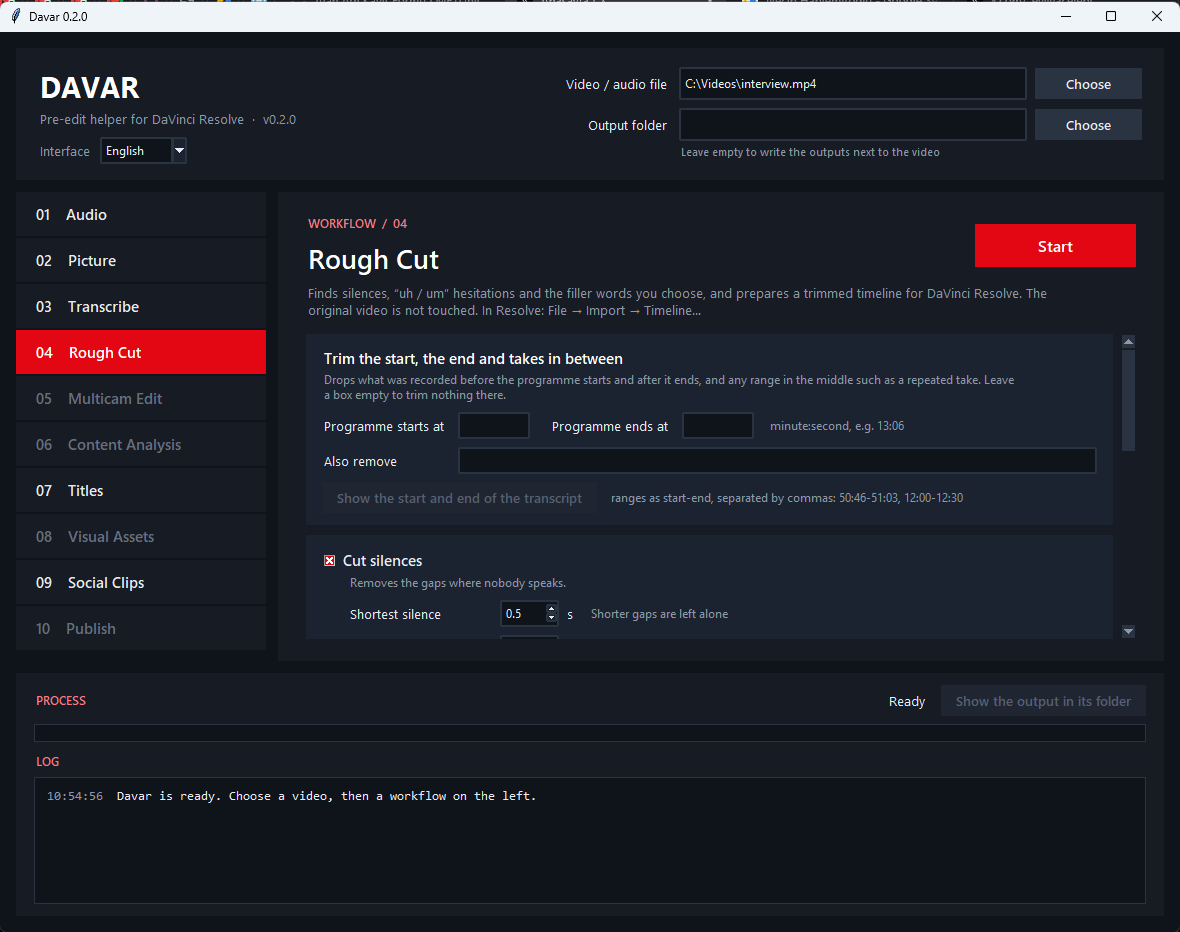
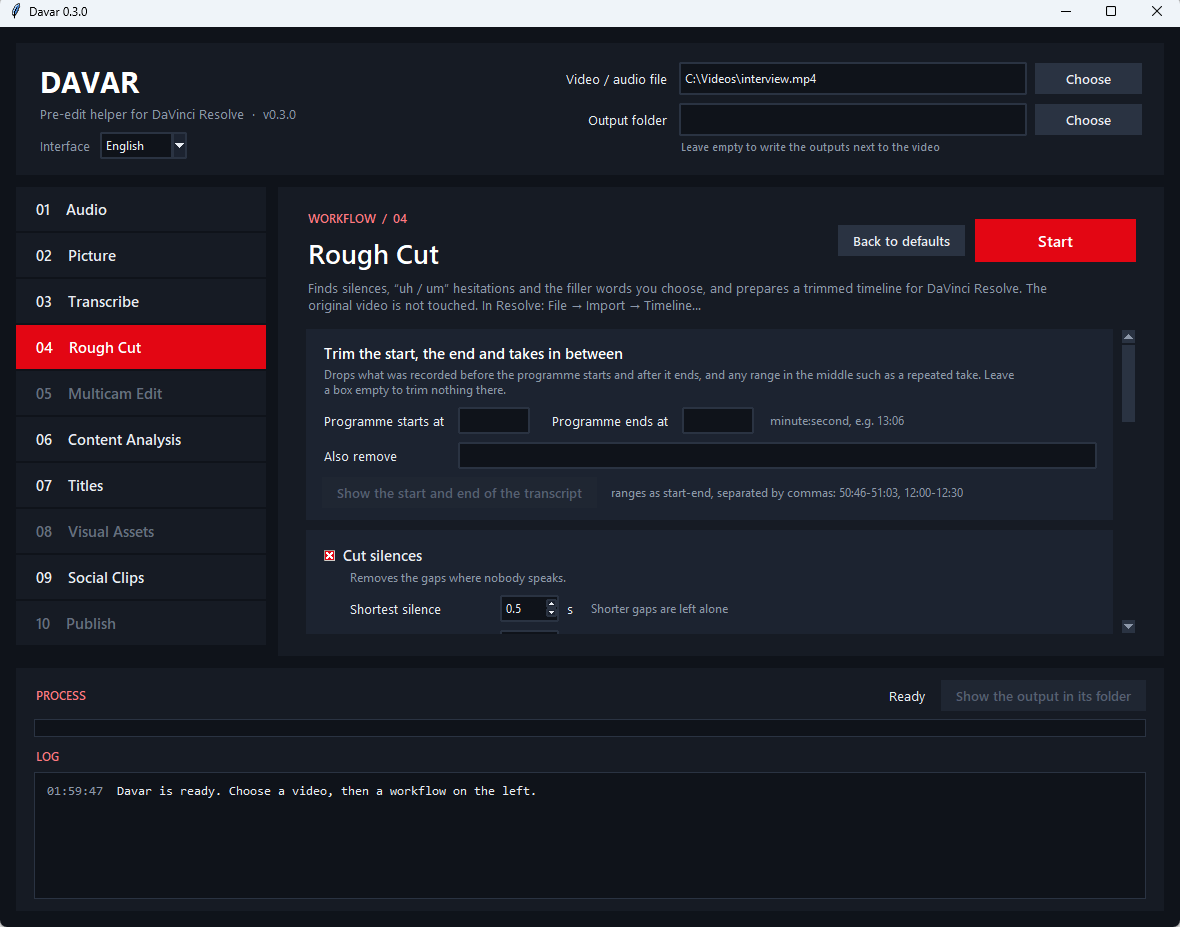
Version 0.3.0
Picture, Content Analysis, settings that are remembered, names placed on
the timeline, framing that follows the speaker, subtitles for the cut,
throat clearing found with a sound model and social clips with the Rough
Cut's cuts. See CHANGELOG.md.

diff --git a/common.py b/common.py
@@ -9,7 +9,7 @@ from fractions import Fraction
 
 from i18n import _
 
-VERSION = "0.2.0"  # keep in step with the top entry of CHANGELOG.md
+VERSION = "0.3.0"  # keep in step with the top entry of CHANGELOG.md
 SAMPLE_RATE = 16000  # audio is resampled to this rate for analysis
 WINDOW = 0.01  # audio level is measured in 10 ms slices
 STANDARD_FPS = [

diff --git a/CHANGELOG.md b/CHANGELOG.md
@@ -1,6 +1,6 @@
 # Changelog
 
-## Unreleased
+## 0.3.0 - 2026-11-17
 
 ### Added
 
@@ -8,23 +8,25 @@
   - **Reframe to 16:9.** Cuts the sides of a picture wider than 16:9, from the left, the right or both, so it fills the frame with no black bars.
   - **Lock the frame.** For a camera on a tripod. While a phone hunts for focus the whole picture grows, shrinks and hops, and over a long recording the frame creeps by several pixels. Every frame is lined up with one reference frame, so the background stands still and cuts show less.
   - The audio is copied untouched, and a transcript already made is carried over to the new video.
+- **Rough Cut: subtitles for the cut.** With a transcript, Rough Cut also writes subtitles that follow the cut timeline (`<video>_cut.srt`); words cut away are left out and the rest move to their time on the timeline. Correcting the text rewrites them too.
+- **Rough Cut: move closer to the speaker.** To hide jump cuts the timeline is framed as with a second camera: closer to whoever gives a long answer, toward the side they sit on, and on everyone during quick exchanges. Inside a long answer the framing changes about every half minute, at the cut that jumps most. Who speaks comes from the transcript, who sits where from the Titles page; name titles already on the timeline stay.
+- **Rough Cut: throat clearing found with a sound model.** An option finds the throat clearing that runs into speech, which the silence rule misses. YAMNet (16 MB, downloaded once and checked) describes the audio and a small classifier trained on throat clearings marked by ear picks about 25 likely places an hour, offered unticked as "throat clearing? (listen)". The stretch offered is the shortest one whose removal takes the sound away, so the words around it stay.
+- **Rough Cut: views of the review list.** The **Show** choice lists all candidates, those to be cut, those not to be cut, the uncertain ones or the non-speech sounds.
+- **Content Analysis**, a new workflow (06): an AI chat of your choice writes the YouTube texts, with no key and no fee. Davar writes a prompt holding the transcript with its times on the Rough Cut timeline and who says what; the answer pasted back becomes title suggestions, a description with chapters, tags, a summary and social clip candidates (`<video>_youtube.txt`). The chapters follow YouTube's rules.
+- **Titles: names placed on the timeline.** Write the speakers in the order they first speak; Davar tells the voices apart and puts each lower third on the track above the video, a few seconds after that person first speaks. The names go into the Rough Cut timeline when there is one, the log shows the words spoken at each place, a time can be given by hand (`Name | Title | 0:41`), and running Rough Cut again keeps the names.
+- **Titles: a place for each name.** A line may say where its name goes on the screen (`Name | Title | right`), for people sitting on different sides; the place chosen on the page is for the lines that say nothing.
+- **Social Clips: the Rough Cut's cuts applied.** When the video has a Rough Cut timeline, the silences, hesitations and trimmed parts it cut are left out of the clip too, and the burned-in subtitles follow. On by default; the times given stay those of the video.
 - **Settings are remembered.** Nothing has to be entered again when Davar is opened:
   - General settings (thresholds, paddings, filler words, ticked options, speaker names) come back as last used.
   - Settings that belong to one video (trim times, the range of a social clip, separate audio files, the output folder) are kept with that video and come back when it is chosen again.
   - Davar opens with the video and the page last worked on, and a video it wrote from another one starts with the settings of its source.
   - Each page has a **Back to defaults** button, and the settings survive a change of the interface language.
-- **Titles: names placed on the timeline.** Write the speakers in the order they first speak; Davar tells the voices apart and puts each lower third on the track above the video, a few seconds after that person first speaks. The names go into the Rough Cut timeline when there is one, the log shows the words spoken at each place, a time can be given by hand (`Name | Title | 0:41`), and running Rough Cut again keeps the names.
-- **Rough Cut: move closer to the speaker.** To hide jump cuts the timeline is framed as with a second camera: closer to whoever gives a long answer, toward the side they sit on, and on everyone during quick exchanges. Inside a long answer the framing changes about every half minute, at the cut that jumps most. Who speaks comes from the transcript, who sits where from the Titles page; name titles already on the timeline stay.
-- **Rough Cut: subtitles for the cut.** With a transcript, Rough Cut also writes subtitles that follow the cut timeline (`<video>_cut.srt`); words cut away are left out and the rest move to their time on the timeline. Correcting the text rewrites them too.
-- **Rough Cut: views of the review list.** The **Show** choice lists all candidates, those to be cut, those not to be cut, the uncertain ones or the non-speech sounds. It replaces the box that hid only the confident ones.
-- **Content Analysis**, a new workflow (06): an AI chat of your choice writes the YouTube texts, with no key and no fee. Davar writes a prompt holding the transcript with its times on the Rough Cut timeline and who says what; the answer pasted back becomes title suggestions, a description with chapters, tags, a summary and social clip candidates (`<video>_youtube.txt`). The chapters follow YouTube's rules.
-- **Rough Cut: throat clearing found with a sound model.** An option finds the throat clearing that runs into speech, which the silence rule misses. YAMNet (16 MB, downloaded once and checked) describes the audio and a small classifier trained on throat clearings marked by ear picks about 25 likely places an hour, offered unticked as "throat clearing? (listen)".
-- **Social Clips: the Rough Cut's cuts applied.** When the video has a Rough Cut timeline, the silences, hesitations and trimmed parts it cut are left out of the clip too, and the burned-in subtitles follow. On by default; the times given stay those of the video.
-- **Titles: a place for each name.** A line may say where its name goes (`Name | Title | right`), for people sitting on different sides; the place chosen on the page is for the lines that say nothing.
 
 ### Changed
 
-- The workflows after Audio moved down by one: Transcribe is now 03, Rough Cut 04, Titles 07, Social Clips 09.
+- The workflows after Audio moved down by one: Transcribe is now 03, Rough Cut 04, Content Analysis 06, Titles 07, Social Clips 09.
+- The review list's box "Show only the uncertain ones", which hid only the confident candidates, is replaced by the **Show** choice.
+- Publish (10) now plans only the thumbnail; its texts are written by Content Analysis.
 
 ### Fixed
 
